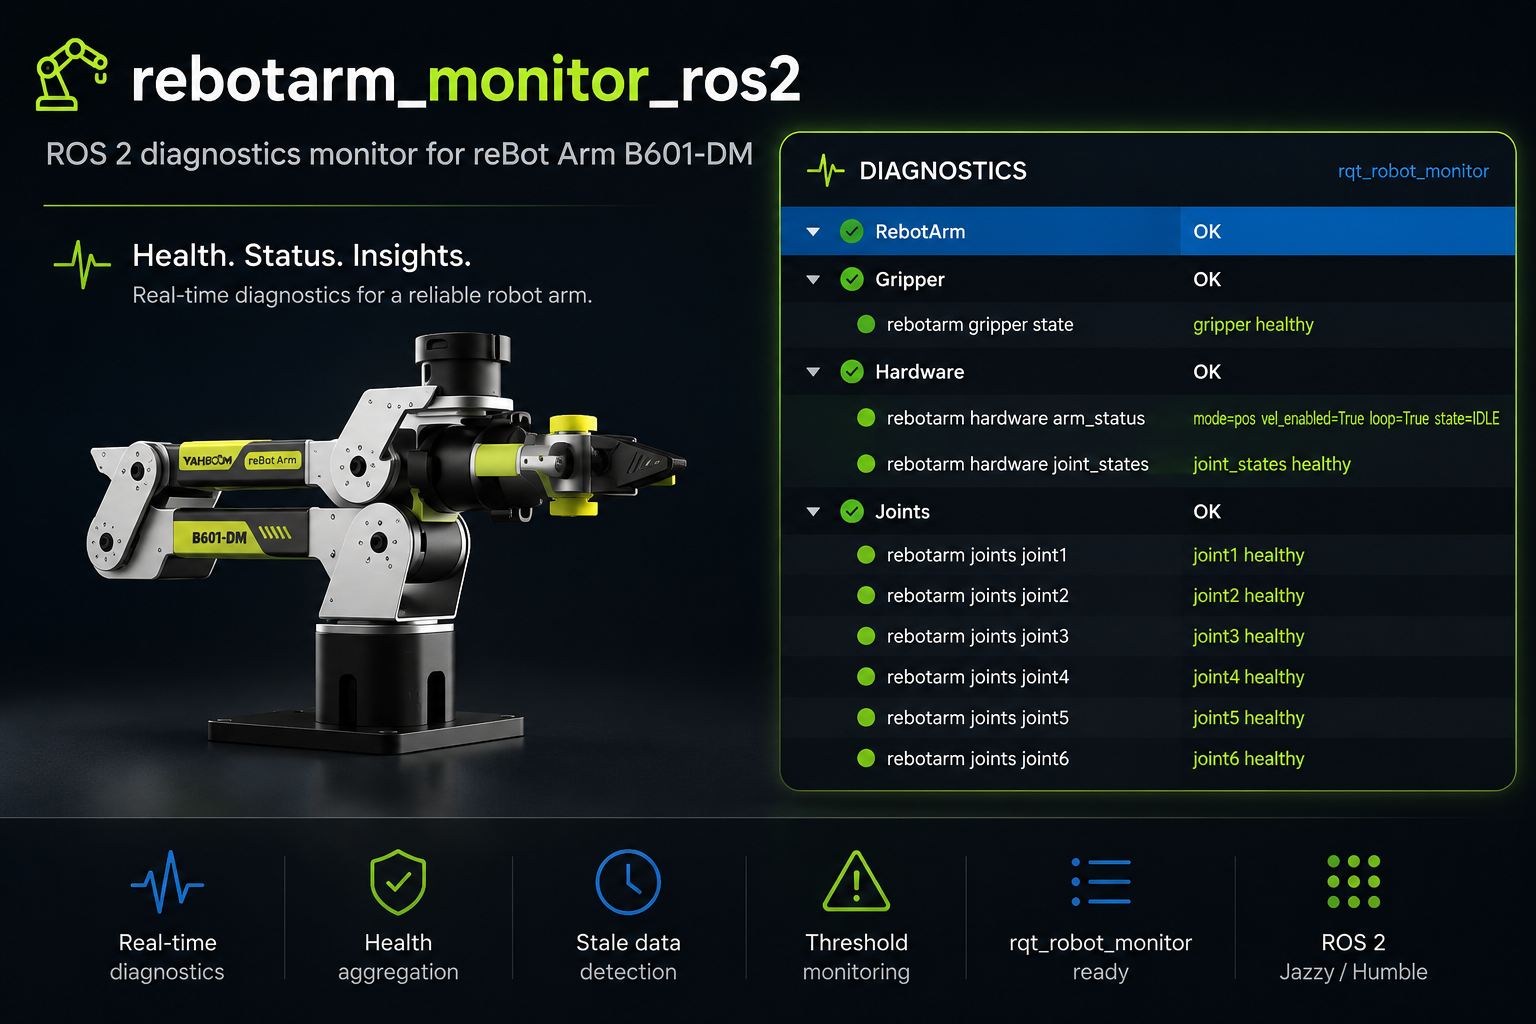
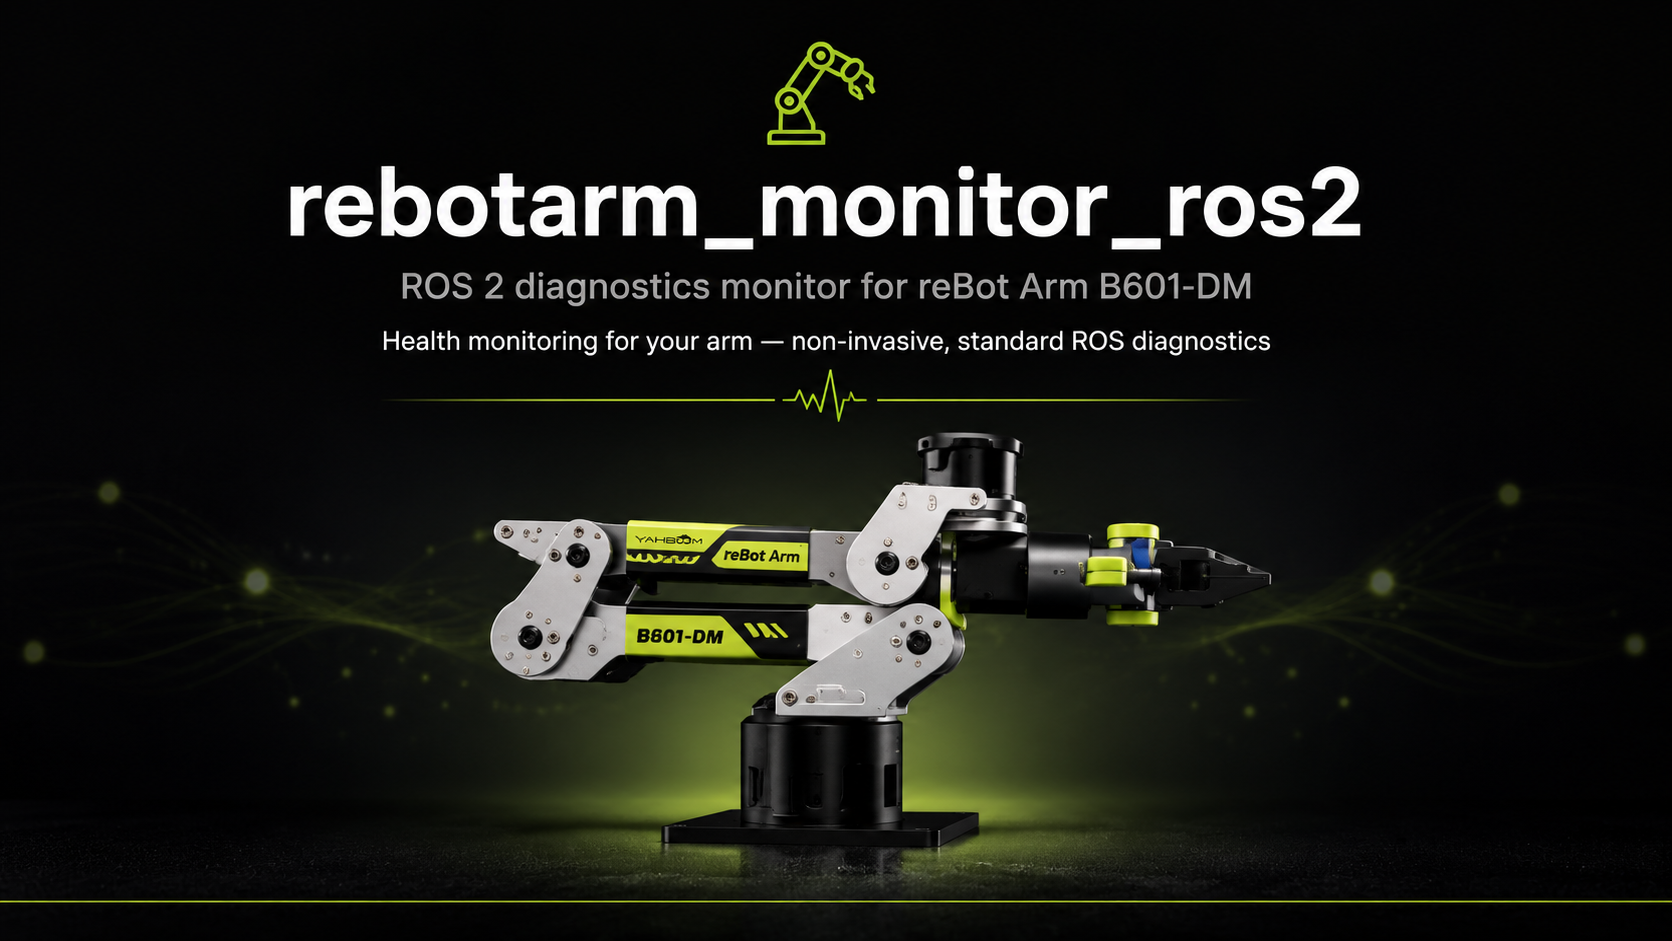
docs: polish README header and refresh hero image
Add tagline, CI and driver badges, Quick start, and Jazzy-only distro
wording. Update hero banner for the B601-DM monitor repo landing page.

Changed region(s): [[0.0, 0.0308, 1.0, 0.9862], [0.125, 0.5855, 0.1562, 0.6472]]

diff --git a/README.md b/README.md
@@ -1,21 +1,40 @@
 # rebotarm_monitor_ros2
 
-[![ROS 2](https://img.shields.io/badge/ROS%202-Jazzy%20%7C%20Humble-22314E?logo=ros&logoColor=white)](https://docs.ros.org/)
-[![Python](https://img.shields.io/badge/Python-3.10%2B-3776AB?logo=python&logoColor=white)](https://www.python.org/)
-[![License: Apache 2.0](https://img.shields.io/badge/License-Apache_2.0-blue.svg)](https://opensource.org/licenses/Apache-2.0)
-[![Build system: colcon](https://img.shields.io/badge/build-colcon-9cf)](https://colcon.readthedocs.io/)
+> ROS 2 health monitoring for **reBot Arm B601-DM** — read-only `diagnostic_msgs`
+> alongside the
+> [Seeed reBot Arm driver](https://github.com/Seeed-Projects/reBotArmController_ROS2).
 
-ROS 2 workspace with a single package, `rebotarm_monitor`, that subscribes to
-the topics published by a running reBot Arm B601-DM driver, polls a few host
-metrics (SocketCAN counters, driver process health), and publishes
-`diagnostic_msgs/DiagnosticArray` on `/diagnostics`.
+[![CI](https://github.com/danieldoradotalaveron-rb/rebotarm_monitor_ros2/actions/workflows/ci.yml/badge.svg)](https://github.com/danieldoradotalaveron-rb/rebotarm_monitor_ros2/actions/workflows/ci.yml)
+[![ROS 2](https://img.shields.io/badge/ROS%202-Jazzy-22314E?logo=ros&logoColor=white)](https://docs.ros.org/en/jazzy/)
+[![Python](https://img.shields.io/badge/Python-3.10%2B-3776AB?logo=python&logoColor=white)](https://www.python.org/)
+[![License](https://img.shields.io/badge/License-Apache_2.0-blue.svg)](https://opensource.org/licenses/Apache-2.0)
+[![Driver](https://img.shields.io/badge/driver-Seeed%20reBotArm-8A2BE2)](https://github.com/Seeed-Projects/reBotArmController_ROS2)
 
 <p align="center">
-  <img src="docs/hero.png" alt="rebotarm_monitor_ros2 — ROS 2 diagnostics monitor for reBot Arm B601-DM" width="92%"/>
+  <img src="docs/hero.png" alt="rebotarm_monitor_ros2 — diagnostics for reBot Arm B601-DM" width="800"/>
 </p>
+
+`rebotarm_monitor` subscribes to driver topics, checks host link and process
+health, and publishes `/diagnostics` (with `diagnostic_aggregator` for
+`rqt_robot_monitor`).
+
+## Quick start
+
+Prerequisites: [Seeed driver](https://github.com/Seeed-Projects/reBotArmController_ROS2)
+built and `reBotArmController` running.
+
+```bash
+source /opt/ros/jazzy/setup.bash
+source /path/to/driver-workspace/install/setup.bash
+cd /path/to/rebotarm_monitor_ros2
+colcon build --packages-select rebotarm_monitor && source install/setup.bash
+ros2 launch rebotarm_monitor monitor.launch.py
+# optional: ros2 run rqt_robot_monitor rqt_robot_monitor
+```
 
 ## Contents
 
+- [Quick start](#quick-start)
 - [Requirements](#requirements)
 - [Build](#build)
 - [Run](#run)
@@ -28,9 +47,9 @@ metrics (SocketCAN counters, driver process health), and publishes
 
 ## Requirements
 
-- ROS 2 Jazzy (future compatibility with Humble).
-- A sourced ROS 2 workspace that provides `rebotarm_msgs` (built from the
-  Seeed reBot Arm driver workspace with `colcon`).
+- ROS 2 [Jazzy](https://docs.ros.org/en/jazzy/) on Ubuntu 24.04 (same as CI).
+- A sourced workspace that provides `rebotarm_msgs` from the
+  [Seeed reBot Arm driver](https://github.com/Seeed-Projects/reBotArmController_ROS2).
 - A running `reBotArmController` node.
 - `python3-psutil` (declared as an `exec_depend`; install with `rosdep` or
   `apt install python3-psutil`).
@@ -53,7 +72,7 @@ ros2 run rqt_robot_monitor rqt_robot_monitor   # optional GUI
 ```
 
 The launch file starts the monitor node plus a `diagnostic_aggregator` so the
-output is ready to be visualised in `rqt_robot_monitor`.
+output is ready to be visualized in `rqt_robot_monitor`.
 
 ### Aggregator groups in rqt
 
@@ -116,6 +135,10 @@ Topics published:
 | `/diagnostics_toplevel_state` | `diagnostic_msgs/DiagnosticStatus` (from aggregator) |
 
 ## Configuration
+
+Launch arguments below cover the common cases. For the full parameter table and
+diagnostic reference, see
+[`src/rebotarm_monitor/README.md`](src/rebotarm_monitor/README.md).
 
 ROS 2 parameters resolve in this order (lowest → highest precedence):
 